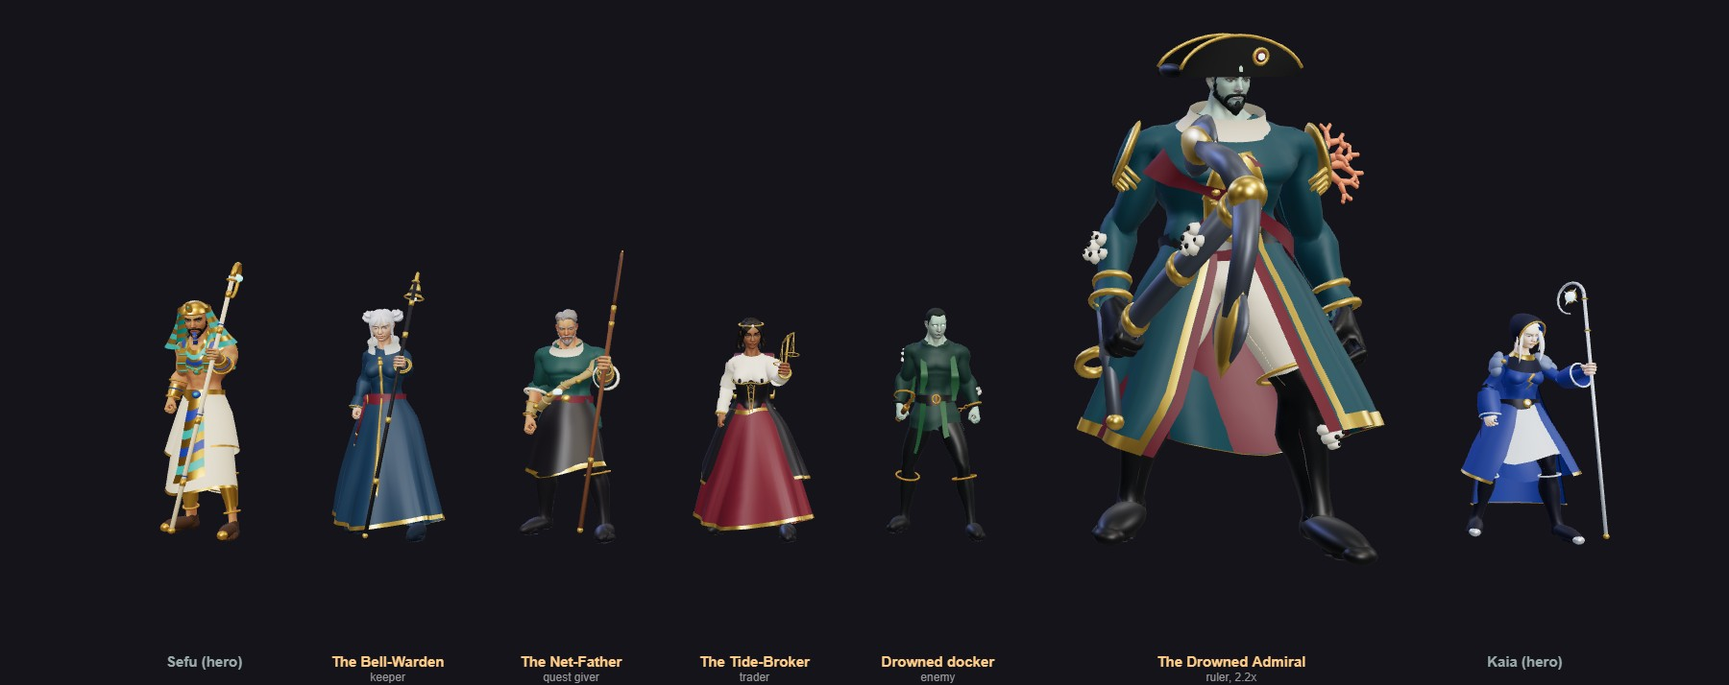
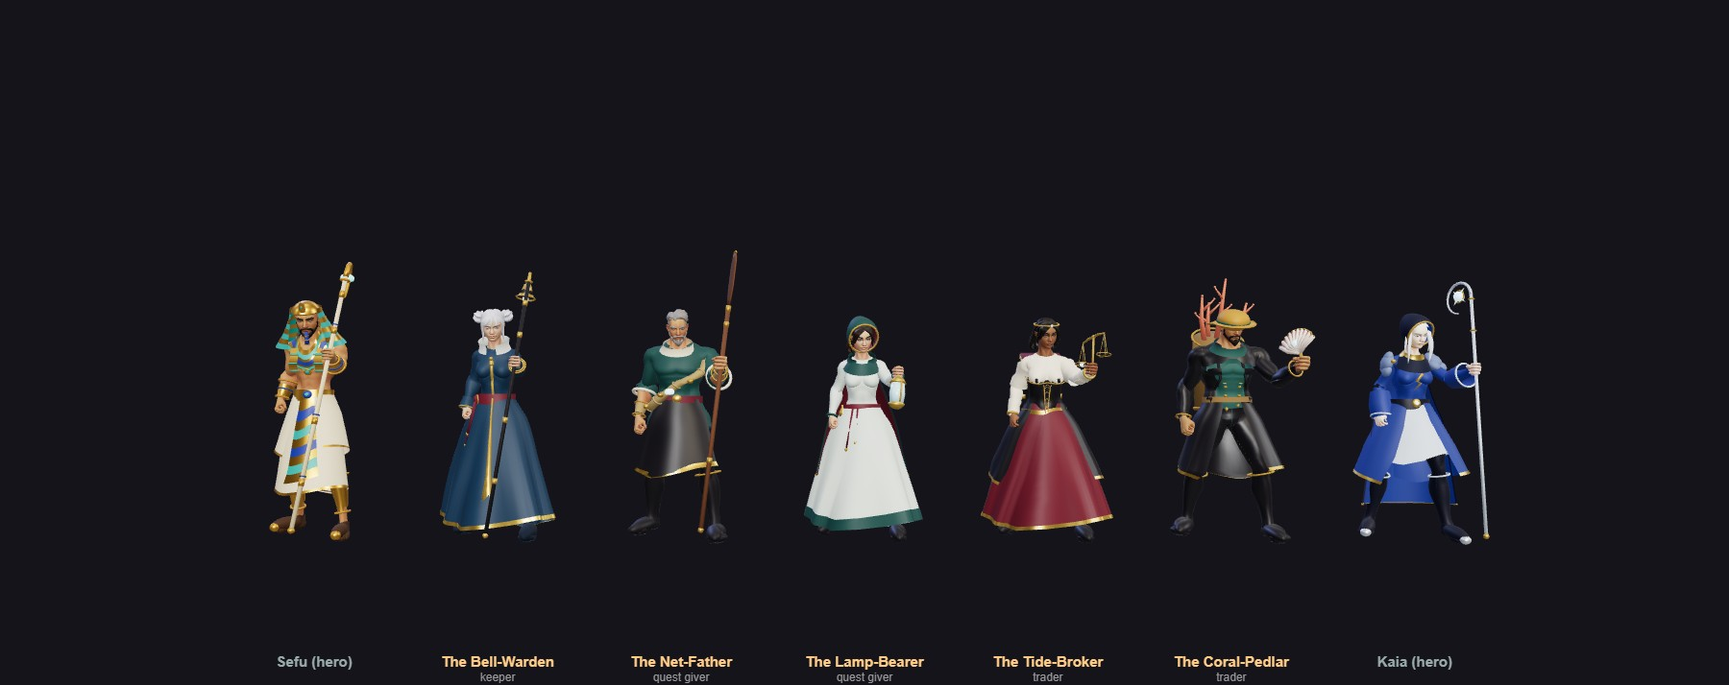
Climb people: line-ups, sheets and in-game camp pictures for all five chapters, the page of the 25 (docs/tower/models/index.html), the README, and the News line

diff --git a/docs/tower/models/index.html b/docs/tower/models/index.html
@@ -1,0 +1,77 @@
+<!doctype html><html lang="en"><head><meta charset="utf-8"><meta name="viewport" content="width=device-width, initial-scale=1">
+<title>The Climb's People</title>
+<style>
+:root{--bg:#f4f1ea;--fg:#1d1b21;--mute:#6a6470;--card:#fffdf8;--line:#ddd6c8;--gold:#9a7424}
+@media (prefers-color-scheme: dark){:root{--bg:#15141a;--fg:#ece6da;--mute:#a49eaa;--card:#1f1d25;--line:#34303c;--gold:#d2ae55}}
+body{margin:0;background:var(--bg);color:var(--fg);font:16px/1.5 system-ui,sans-serif}
+main{max-width:1200px;margin:auto;padding:16px}
+h1{margin:.2em 0} h2{border-top:2px solid var(--gold);padding-top:.6em;margin-top:2em} h2 small{display:block;font-size:.6em;color:var(--mute);font-weight:400}
+nav a{color:var(--gold);margin-right:1em}
+img{width:100%;height:auto;display:block;border-radius:6px;background:#15141a}
+figure{margin:0} figcaption{font-size:.9em;color:var(--mute);padding:.3em 0}
+.pair{display:grid;grid-template-columns:1fr;gap:12px}
+.cards{display:grid;grid-template-columns:repeat(auto-fill,minmax(300px,1fr));gap:14px;margin:14px 0}
+.card{background:var(--card);border:1px solid var(--line);border-radius:8px;padding:8px}
+.card b{display:block;font-size:1.1em;color:var(--fg)} .card span{display:block} .card .role{color:var(--gold)}
+.wide{margin-top:8px}
+p{max-width:70ch}
+</style></head><body><main>
+<h1>The Climb's people</h1>
+<p>Twenty-five people of their own, five a chapter, in place of the heroes who used to stand in the camps (the user, 2026-11-14:
+"make new models for npc, don't reuse them from heroes"). In each chapter the keeper stands on all ten floors; the quest giver at the
+camp and the one out in the land each keep their own lines; the two traders take turns, odd floors and even floors. Rivals and
+gatekeepers are still heroes: they are fights against a hero. Built like the heroes (the pack's body on the animation pack's
+skeleton, blender/tower), each 450 to 550 KB.</p>
+<nav><a href="#sea">The Sea</a><a href="#wood">The Wood</a><a href="#sands">The Sands</a><a href="#deep">The Deep</a><a href="#war">The War</a></nav>
+<section id="sea"><h2>The Sea <small>floors 1 to 10 · navy and sea-green, the harbour's wine, sea-glass light</small></h2>
+<div class="pair"><figure><img loading="lazy" src="sea-lineup-game.jpg" alt="The Sea's five beside Sefu and Kaia from the game's camera"><figcaption>From the game's camera, beside the heroes Sefu and Kaia</figcaption></figure>
+<figure><img loading="lazy" src="sea-lineup-front.jpg" alt="The Sea's five beside Sefu and Kaia from the front"><figcaption>From the front</figcaption></figure></div>
+<div class="cards"><figure class="card"><img loading="lazy" src="sea-keeper.jpg" alt="The Bell-Warden: front, back, the game's camera and the face">
+<figcaption><b>The Bell-Warden</b><span class="role">Keeper (all ten floors, the main quest)</span><span>She rings the harbour bell that calls the drowned ships home.</span></figcaption></figure><figure class="card"><img loading="lazy" src="sea-fisher.jpg" alt="The Net-Father: front, back, the game's camera and the face">
+<figcaption><b>The Net-Father</b><span class="role">Quest giver at the camp</span><span>The old fisher who mends the nets that hold the sea back from the town.</span></figcaption></figure><figure class="card"><img loading="lazy" src="sea-lamp.jpg" alt="The Lamp-Bearer: front, back, the game's camera and the face">
+<figcaption><b>The Lamp-Bearer</b><span class="role">Quest giver out in the land</span><span>She keeps the shore lamps that tell the boats where the land begins.</span></figcaption></figure><figure class="card"><img loading="lazy" src="sea-trader.jpg" alt="The Tide-Broker: front, back, the game's camera and the face">
+<figcaption><b>The Tide-Broker</b><span class="role">Trader Stands on the odd floors.</span><span>She weighs what the tide gives back and sells it to climbers.</span></figcaption></figure><figure class="card"><img loading="lazy" src="sea-pedlar.jpg" alt="The Coral-Pedlar: front, back, the game's camera and the face">
+<figcaption><b>The Coral-Pedlar</b><span class="role">Trader Stands on the even floors.</span><span>He sells what grows on the drowned reef, and carries the reef on his back.</span></figcaption></figure></div>
+<figure class="wide"><img loading="lazy" src="sea-ingame.jpg" alt="In the game: the camp of The Sea's first floor with its people and the keeper's card open"><figcaption>In the game: the camp of floor 1, the keeper's card open</figcaption></figure>
+</section><section id="wood"><h2>The Wood <small>floors 11 to 20 · forest and moss greens, bark brown, amber light</small></h2>
+<div class="pair"><figure><img loading="lazy" src="wood-lineup-game.jpg" alt="The Wood's five beside Sefu and Kaia from the game's camera"><figcaption>From the game's camera, beside the heroes Sefu and Kaia</figcaption></figure>
+<figure><img loading="lazy" src="wood-lineup-front.jpg" alt="The Wood's five beside Sefu and Kaia from the front"><figcaption>From the front</figcaption></figure></div>
+<div class="cards"><figure class="card"><img loading="lazy" src="wood-abbess.jpg" alt="The Moss-Abbess: front, back, the game's camera and the face">
+<figcaption><b>The Moss-Abbess</b><span class="role">Keeper (all ten floors, the main quest)</span><span>She sounds the horn that keeps the walking wood asleep.</span></figcaption></figure><figure class="card"><img loading="lazy" src="wood-lighter.jpg" alt="The Path-Lighter: front, back, the game's camera and the face">
+<figcaption><b>The Path-Lighter</b><span class="role">Quest giver at the camp</span><span>He lights the spore lamps that show where the wood&#x27;s paths have moved to.</span></figcaption></figure><figure class="card"><img loading="lazy" src="wood-kiln.jpg" alt="The Kiln-Mother: front, back, the game's camera and the face">
+<figcaption><b>The Kiln-Mother</b><span class="role">Quest giver out in the land</span><span>She tends the charcoal stacks whose smoke keeps the hounds of the wood away.</span></figcaption></figure><figure class="card"><img loading="lazy" src="wood-amber.jpg" alt="The Amber-Seller: front, back, the game's camera and the face">
+<figcaption><b>The Amber-Seller</b><span class="role">Trader Stands on the odd floors.</span><span>She sells the wood&#x27;s amber, the old resin with the forest&#x27;s memories caught in it.</span></figcaption></figure><figure class="card"><img loading="lazy" src="wood-charm.jpg" alt="The Charm-Pedlar: front, back, the game's camera and the face">
+<figcaption><b>The Charm-Pedlar</b><span class="role">Trader Stands on the even floors.</span><span>He walks the wood&#x27;s moving paths with a frame of carved charms that the wood lets pass.</span></figcaption></figure></div>
+<figure class="wide"><img loading="lazy" src="wood-ingame.jpg" alt="In the game: the camp of The Wood's first floor with its people and the keeper's card open"><figcaption>In the game: the camp of floor 11, the keeper's card open</figcaption></figure>
+</section><section id="sands"><h2>The Sands <small>floors 21 to 30 · night indigo, terracotta, turquoise and saffron</small></h2>
+<div class="pair"><figure><img loading="lazy" src="sands-lineup-game.jpg" alt="The Sands's five beside Sefu and Kaia from the game's camera"><figcaption>From the game's camera, beside the heroes Sefu and Kaia</figcaption></figure>
+<figure><img loading="lazy" src="sands-lineup-front.jpg" alt="The Sands's five beside Sefu and Kaia from the front"><figcaption>From the front</figcaption></figure></div>
+<div class="cards"><figure class="card"><img loading="lazy" src="sands-seer.jpg" alt="The Star-Reader: front, back, the game's camera and the face">
+<figcaption><b>The Star-Reader</b><span class="role">Keeper (all ten floors, the main quest)</span><span>She reads in the night sky which way the storms will walk, and sends climbers by the roads they leave open.</span></figcaption></figure><figure class="card"><img loading="lazy" src="sands-counter.jpg" alt="The Storm-Counter: front, back, the game's camera and the face">
+<figcaption><b>The Storm-Counter</b><span class="role">Quest giver at the camp</span><span>He keeps the count of the storms, every one, by the sand that runs through his glass, and the caravans move by his word.</span></figcaption></figure><figure class="card"><img loading="lazy" src="sands-beacon.jpg" alt="The Beacon-Keeper: front, back, the game's camera and the face">
+<figcaption><b>The Beacon-Keeper</b><span class="role">Quest giver out in the land</span><span>She keeps the watch fires that warn the road of a storm coming.</span></figcaption></figure><figure class="card"><img loading="lazy" src="sands-silk.jpg" alt="The Silk-Merchant: front, back, the game's camera and the face">
+<figcaption><b>The Silk-Merchant</b><span class="role">Trader Stands on the odd floors.</span><span>The master of the last caravan, who sells from its bales the road has not taken.</span></figcaption></figure><figure class="card"><img loading="lazy" src="sands-glass.jpg" alt="The Glass-Seller: front, back, the game's camera and the face">
+<figcaption><b>The Glass-Seller</b><span class="role">Trader Stands on the even floors.</span><span>She gathers the glass the lightning leaves in the dunes and sells it by the light it still holds.</span></figcaption></figure></div>
+<figure class="wide"><img loading="lazy" src="sands-ingame.jpg" alt="In the game: the camp of The Sands's first floor with its people and the keeper's card open"><figcaption>In the game: the camp of floor 21, the keeper's card open</figcaption></figure>
+</section><section id="deep"><h2>The Deep <small>floors 31 to 40 · slate and violet, silver, cold mint and lavender light</small></h2>
+<div class="pair"><figure><img loading="lazy" src="deep-lineup-game.jpg" alt="The Deep's five beside Sefu and Kaia from the game's camera"><figcaption>From the game's camera, beside the heroes Sefu and Kaia</figcaption></figure>
+<figure><img loading="lazy" src="deep-lineup-front.jpg" alt="The Deep's five beside Sefu and Kaia from the front"><figcaption>From the front</figcaption></figure></div>
+<div class="cards"><figure class="card"><img loading="lazy" src="deep-hermit.jpg" alt="The Echo-Hermit: front, back, the game's camera and the face">
+<figcaption><b>The Echo-Hermit</b><span class="role">Keeper (all ten floors, the main quest)</span><span>Blind for longer than anyone remembers, he finds the way through the dark halls by the echoes of his staff.</span></figcaption></figure><figure class="card"><img loading="lazy" src="deep-candle.jpg" alt="The Candle-Crowned: front, back, the game's camera and the face">
+<figcaption><b>The Candle-Crowned</b><span class="role">Quest giver at the camp</span><span>She keeps the last candles of the Deep burning, and wears them, so that wherever she walks there is a little light.</span></figcaption></figure><figure class="card"><img loading="lazy" src="deep-ferry.jpg" alt="The Ferryman: front, back, the game's camera and the face">
+<figcaption><b>The Ferryman</b><span class="role">Quest giver out in the land</span><span>He poles the one boat across the lake under the mountain, and brings back those who went too far down.</span></figcaption></figure><figure class="card"><img loading="lazy" src="deep-crystal.jpg" alt="The Crystal-Seller: front, back, the game's camera and the face">
+<figcaption><b>The Crystal-Seller</b><span class="role">Trader Stands on the odd floors.</span><span>She cuts the Deep&#x27;s crystals and sells light by the facet.</span></figcaption></figure><figure class="card"><img loading="lazy" src="deep-firefly.jpg" alt="The Firefly-Seller: front, back, the game's camera and the face">
+<figcaption><b>The Firefly-Seller</b><span class="role">Trader Stands on the even floors.</span><span>He sells living light, the fireflies of the deep caves, by the jar.</span></figcaption></figure></div>
+<figure class="wide"><img loading="lazy" src="deep-ingame.jpg" alt="In the game: the camp of The Deep's first floor with its people and the keeper's card open"><figcaption>In the game: the camp of floor 31, the keeper's card open</figcaption></figure>
+</section><section id="war"><h2>The War <small>floors 41 to 50 · the two banners' crimson and azure, iron grey, white</small></h2>
+<div class="pair"><figure><img loading="lazy" src="war-lineup-game.jpg" alt="The War's five beside Sefu and Kaia from the game's camera"><figcaption>From the game's camera, beside the heroes Sefu and Kaia</figcaption></figure>
+<figure><img loading="lazy" src="war-lineup-front.jpg" alt="The War's five beside Sefu and Kaia from the front"><figcaption>From the front</figcaption></figure></div>
+<div class="cards"><figure class="card"><img loading="lazy" src="war-herald.jpg" alt="The Herald: front, back, the game's camera and the face">
+<figcaption><b>The Herald</b><span class="role">Keeper (all ten floors, the main quest)</span><span>She speaks for both armies, the only voice either side still lets cross the field.</span></figcaption></figure><figure class="card"><img loading="lazy" src="war-turncloak.jpg" alt="The Turncloak: front, back, the game's camera and the face">
+<figcaption><b>The Turncloak</b><span class="role">Quest giver at the camp</span><span>He fought for both banners, one after the other, and now keeps his head down between them.</span></figcaption></figure><figure class="card"><img loading="lazy" src="war-sister.jpg" alt="The White Sister: front, back, the game's camera and the face">
+<figcaption><b>The White Sister</b><span class="role">Quest giver out in the land</span><span>She mends whoever is carried in, whatever the colour of their banner.</span></figcaption></figure><figure class="card"><img loading="lazy" src="war-camp.jpg" alt="The Camp-Mother: front, back, the game's camera and the face">
+<figcaption><b>The Camp-Mother</b><span class="role">Trader Stands on the odd floors.</span><span>She feeds both armies from one fire and takes both armies&#x27; shards.</span></figcaption></figure><figure class="card"><img loading="lazy" src="war-quarter.jpg" alt="The Quartermaster: front, back, the game's camera and the face">
+<figcaption><b>The Quartermaster</b><span class="role">Trader Stands on the even floors.</span><span>He keeps the stores that both armies left behind, and opens them for shards.</span></figcaption></figure></div>
+<figure class="wide"><img loading="lazy" src="war-ingame.jpg" alt="In the game: the camp of The War's first floor with its people and the keeper's card open"><figcaption>In the game: the camp of floor 41, the keeper's card open</figcaption></figure>
+</section>
+</main></body></html>

diff --git a/src/game/changelog.ts b/src/game/changelog.ts
@@ -39,6 +39,20 @@ export interface Release {
 export const CHANGELOG: Release[] = [
   {
     date: '2026-11-14',
+    title: 'The Climb’s own people',
+    live: false,
+    items: [
+      {
+        tag: 'Tower',
+        title: 'The Climb’s people are their own',
+        text: 'The keepers, quest givers and traders on the Climb are no longer heroes standing in: each chapter has five people of its own, from the Bell-Warden of the Sea to the Herald of the War, and the traders take turns floor by floor. Rivals and gatekeepers are still heroes.',
+        image: '/news/climb-people.jpg',
+        alt: 'The Wood’s five people between the heroes Sefu and Kaia: the Moss-Abbess in a pointed green hood with a curled horn, the Path-Lighter in a wide hat with a lamp on a tall pole, the Kiln-Mother with a basket of charcoal and a fire-rake, the Amber-Seller with a tray of amber, and the Charm-Pedlar with a frame of charms over his head.',
+      },
+    ],
+  },
+  {
+    date: '2026-11-14',
     title: 'The Climb grows to fifty floors',
     live: true,
     items: [

diff --git a/blender/tower/page.py b/blender/tower/page.py
@@ -1,0 +1,67 @@
+"""Writes docs/tower/models/index.html, the page of the Climb's 25 people chapter by chapter (names and roles from
+src/tower/world/folk.ts, one line each from the first sentence of its Blender module's docstring). Run from the repo root:
+
+    python blender/tower/page.py
+"""
+import re, ast, html, os
+folk = open('src/tower/world/folk.ts', encoding='utf8').read()
+rows = re.findall(r"\{ id: '(\w+)', chapter: '(\w+)', name: '([^']+)', title: '([^']+)', slot: '(\w+)'", folk)
+CH = [('sea', 'The Sea', 'floors 1 to 10', 'navy and sea-green, the harbour\'s wine, sea-glass light'),
+      ('wood', 'The Wood', 'floors 11 to 20', 'forest and moss greens, bark brown, amber light'),
+      ('sands', 'The Sands', 'floors 21 to 30', 'night indigo, terracotta, turquoise and saffron'),
+      ('deep', 'The Deep', 'floors 31 to 40', 'slate and violet, silver, cold mint and lavender light'),
+      ('war', 'The War', 'floors 41 to 50', 'the two banners\' crimson and azure, iron grey, white')]
+SLOT = {'keeper': 'Keeper (all ten floors, the main quest)', 'giver': 'Quest giver at the camp', 'village': 'Quest giver out in the land', 'trader': 'Trader'}
+def doc(fid):
+    ch, n = fid.split('_', 1)
+    d = ast.get_docstring(ast.parse(open(f'blender/tower/{ch}/{"fisher" if n=="fisher" else n}.py', encoding='utf8').read()))
+    d = ' '.join(d.split())
+    first = d.split(': ', 1)[1] if ': ' in d.split('.')[0] else d
+    s = first.split('. ')[0].rstrip('.') + '.'
+    return s[0].upper() + s[1:]
+out = []
+for ch, title, floors, colours in CH:
+    figs = [r for r in rows if r[1] == ch]
+    trade = [r for r in figs if r[4] == 'trader']
+    cards = []
+    for fid, _, name, ttl, slot in figs:
+        extra = ''
+        if slot == 'trader':
+            extra = ' Stands on the odd floors.' if fid == trade[0][0] else ' Stands on the even floors.'
+        cards.append(f'''<figure class="card"><img loading="lazy" src="{fid.replace('_','-')}.jpg" alt="{html.escape(name)}: front, back, the game's camera and the face">
+<figcaption><b>{html.escape(name)}</b><span class="role">{SLOT[slot]}{extra}</span><span>{html.escape(doc(fid))}</span></figcaption></figure>''')
+    out.append(f'''<section id="{ch}"><h2>{title} <small>{floors} · {colours}</small></h2>
+<div class="pair"><figure><img loading="lazy" src="{ch}-lineup-game.jpg" alt="{title}'s five beside Sefu and Kaia from the game's camera"><figcaption>From the game's camera, beside the heroes Sefu and Kaia</figcaption></figure>
+<figure><img loading="lazy" src="{ch}-lineup-front.jpg" alt="{title}'s five beside Sefu and Kaia from the front"><figcaption>From the front</figcaption></figure></div>
+<div class="cards">{''.join(cards)}</div>
+<figure class="wide"><img loading="lazy" src="{ch}-ingame.jpg" alt="In the game: the camp of {title}'s first floor with its people and the keeper's card open"><figcaption>In the game: the camp of floor {CH.index((ch,title,floors,colours))*10+1}, the keeper's card open</figcaption></figure>
+</section>''')
+page = f'''<!doctype html><html lang="en"><head><meta charset="utf-8"><meta name="viewport" content="width=device-width, initial-scale=1">
+<title>The Climb's People</title>
+<style>
+:root{{--bg:#f4f1ea;--fg:#1d1b21;--mute:#6a6470;--card:#fffdf8;--line:#ddd6c8;--gold:#9a7424}}
+@media (prefers-color-scheme: dark){{:root{{--bg:#15141a;--fg:#ece6da;--mute:#a49eaa;--card:#1f1d25;--line:#34303c;--gold:#d2ae55}}}}
+body{{margin:0;background:var(--bg);color:var(--fg);font:16px/1.5 system-ui,sans-serif}}
+main{{max-width:1200px;margin:auto;padding:16px}}
+h1{{margin:.2em 0}} h2{{border-top:2px solid var(--gold);padding-top:.6em;margin-top:2em}} h2 small{{display:block;font-size:.6em;color:var(--mute);font-weight:400}}
+nav a{{color:var(--gold);margin-right:1em}}
+img{{width:100%;height:auto;display:block;border-radius:6px;background:#15141a}}
+figure{{margin:0}} figcaption{{font-size:.9em;color:var(--mute);padding:.3em 0}}
+.pair{{display:grid;grid-template-columns:1fr;gap:12px}}
+.cards{{display:grid;grid-template-columns:repeat(auto-fill,minmax(300px,1fr));gap:14px;margin:14px 0}}
+.card{{background:var(--card);border:1px solid var(--line);border-radius:8px;padding:8px}}
+.card b{{display:block;font-size:1.1em;color:var(--fg)}} .card span{{display:block}} .card .role{{color:var(--gold)}}
+.wide{{margin-top:8px}}
+p{{max-width:70ch}}
+</style></head><body><main>
+<h1>The Climb's people</h1>
+<p>Twenty-five people of their own, five a chapter, in place of the heroes who used to stand in the camps (the user, 2026-11-14:
+"make new models for npc, don't reuse them from heroes"). In each chapter the keeper stands on all ten floors; the quest giver at the
+camp and the one out in the land each keep their own lines; the two traders take turns, odd floors and even floors. Rivals and
+gatekeepers are still heroes: they are fights against a hero. Built like the heroes (the pack's body on the animation pack's
+skeleton, blender/tower), each 450 to 550 KB.</p>
+<nav>{''.join(f'<a href="#{c[0]}">{c[1]}</a>' for c in CH)}</nav>
+{''.join(out)}
+</main></body></html>'''
+open('docs/tower/models/index.html', 'w', encoding='utf8').write(page)
+print(len(rows), 'figures')

diff --git a/docs/tower/models/README.md b/docs/tower/models/README.md
@@ -1,60 +1,74 @@
-# The Tower's own figures
+# The Climb's own people
 
-The user, 2026-11-14: "if you need to create like new model for some npc and stuff make new ones also for enemies just
-make new dont just reuse heroes that we have". Today the Tower's people and rulers are roster heroes (a ruler is a hero drawn
-big and tinted), and its enemies are drawn in code (`src/tower/world/looks.ts`). This folder holds the first sample of new
-models, for chapter 1 (the Sea), **for the user's yes before any more are made. Nothing here is in the game.**
+The user, 2026-11-14: "if you need to create like new model for some npc and stuff make new ones also for enemies just make new dont
+just reuse heroes that we have", then "also make new models for npc, don't reuse them from heroes". **Since then every person on a
+Climb floor (keeper, quest givers, trader) is a figure of its own, in the game** (not live until the next deploy). The rivals,
+gatekeepers and rulers are still heroes, and the enemies are still drawn in code: see the plan below.
 
-## The sample: chapter 1, the Sea
+**The page of all 25, chapter by chapter: [index.html](index.html)** (made by `python blender/tower/page.py`).
 
-![Beside Sefu and Kaia, from the game's camera](sea-lineup-game.jpg)
+![The Wood's five beside Sefu and Kaia, from the game's camera](wood-lineup-game.jpg)
 
-![Beside Sefu and Kaia, from the front](sea-lineup-front.jpg)
+## The 25
 
-![Each alone: front, back, the game's camera, the face](sea-sheet.jpg)
+| Chapter | Keeper (all ten floors) | Quest giver at the camp | Quest giver out in the land | Traders (odd floors / even floors) |
+|---|---|---|---|---|
+| The Sea, 1-10 | The Bell-Warden | The Net-Father | The Lamp-Bearer | The Tide-Broker / The Coral-Pedlar |
+| The Wood, 11-20 | The Moss-Abbess | The Path-Lighter | The Kiln-Mother | The Amber-Seller / The Charm-Pedlar |
+| The Sands, 21-30 | The Star-Reader | The Storm-Counter | The Beacon-Keeper | The Silk-Merchant / The Glass-Seller |
+| The Deep, 31-40 | The Echo-Hermit | The Candle-Crowned | The Ferryman | The Crystal-Seller / The Firefly-Seller |
+| The War, 41-50 | The Herald | The Turncloak | The White Sister | The Camp-Mother / The Quartermaster |
 
-All five stand in the pack's idle clip, drawn by the game's own figure code (`HeroFigure`) in the hero stand's light,
-at true sizes beside the heroes Sefu and Kaia (the admiral at 2.2 times a hero, as a ruler is drawn). One picture per
-figure as well: `sea-keeper.jpg`, `sea-fisher.jpg`, `sea-trader.jpg`, `sea-docker.jpg`, `sea-admiral.jpg`.
+Each is described in the head of its module (`blender/tower/<chapter>/<name>.py`) and on the page. Per chapter here:
+`<chapter>-lineup-game.jpg` and `<chapter>-lineup-front.jpg` (the five beside Sefu and Kaia), `<chapter>-sheet.jpg` and one
+`<chapter>-<name>.jpg` each (front, back, the game's camera, the face), and `<chapter>-ingame.jpg` (the camp of the chapter's first
+floor in the game, the keeper's card open). The Sea's drowned docker and Drowned Admiral (`sea-docker.jpg`, `sea-admiral.jpg`) are
+the first sample's enemy and ruler: built, not in the game.
 
-| Figure | Role | What it is | Body and parts |
-|---|---|---|---|
-| **The Bell-Warden** | keeper (main quest) | She rings the harbour bell that calls the drowned ships home. Silver hair in buns, a sea-navy gown to the floor with a gold hem and front seam, a flared sea-foam collar, a wine sash knotted at the hip, and a tall black staff whose gold crook holds the harbour bell; its clapper is her one light. | Female body (height 1.03). Fitted gown, `skirt` in folds, `collar`, `band`; the staff in the LEFT hand (held upright like Sefu's crook). |
-| **The Net-Father** | quest giver | The old fisher who mends the nets that hold the sea back. Grey hair and beard, bare-headed, a snug cream roll neck, a sea-green tunic, rope bracers, a black apron, his net coiled across the chest with gold floats and one glowing sea-glass float, a steering oar blade-up. | Male body, broad (width 1.1). Pack hair and beard; the net is a strap round the trunk; the oar in the LEFT hand. |
-| **The Tide-Broker** | trader | She weighs what the tide gives back. A cream blouse with full sleeves, a black bodice laced in gold, a long wine skirt with an open black overskirt, pearls, a gold circlet, a strongbox on her back, and a brass balance held up, a glowing pearl in one pan. | Female body. Pack long hair; the balance in the LEFT hand. |
-| **Drowned docker** | enemy, melee | A dock hand the sea sent back up the quay. Pale grey-green skin, no brows, a cold sea-glass light for eyes, a sea-green jersey, clean dark-green kelp ribbons from the shoulders and belt, smooth cream barnacles on one shoulder and one forearm, a shackle and short chain, a brass cargo hook. No rags: what is drowned is told by colour, weed and barnacles. | Male body, lean. The hook in the RIGHT hand (strikes as Brannoc does). 19,000 faces. |
-| **The Drowned Admiral** | ruler (boss) | The admiral who went down with his fleet. Built as a giant, not a hero made big: broad and deep, a smaller head, hands 1.3 times as big. A long deep-teal coat with wine lining and gold braid, gold epaulettes, a cream neck-stock, a wine sash, a black bicorne with a glowing sea-glass cockade, coral grown through the left epaulette, barnacles, and a great anchor held by the shank, carried crown-up across his chest at rest (his move is the Anchor Sweep). | Male body, width 1.3, depth 1.25, head 0.86, `big_hands`. The anchor in the RIGHT hand. |
+**How they were made to differ:** within a chapter no two share more than one of headwear, the held thing's top, the lower outline
+(gown, coat, skirt or legs) and the main colour; the pack has one face per sex, so faces do not tell them apart. Each holds its
+thing in the LEFT hand and stands as the hero Sefu holds his staff (the Turncloak holds a shield on his left arm, as Auriel does),
+at ease. One small light each. 450-550 KB and 19,000-24,500 faces each, like a hero; **12.3 MB for all 25**, about 1.5 MB on a
+floor (three or four of them).
 
-**Kept from the house rules:** the fourth hero style (the pack's realistic body, one continuous skin, on the Universal
-Animation Library's skeleton, so every clip the heroes play plays on these); mythic roles, never jobs played for a joke
-(ART_BIBLE §1; the jokes may live in names); the arena's materials (`blender/arenas/real/STYLE.md`: matte cloth, polished
-gold, the harbour's wine as the chapter's own colour); one small light each; staffs and held things in the left hand,
-weapons in the right (`pipeline/designs/style-v4/README.md`). Each is 460-550 KB and 19,000-25,000 faces, like a hero.
+**Decided here, for the user to overrule:** all the names, the sexes, the roles, which trader is first.
 
-**Decided here, for the user to overrule:** the names; the keeper is a woman and the fisher a man (the pack has one face
-per sex, so the two drowned men share a face and differ by skin, beard and hat); the docker's eyes glow; the admiral's
-coral is the Tide palette's orange accent. **Not checked:** walking, striking, being hit (only the idle clip was looked
-at); a phone.
+## How a floor picks its people (src/tower/world/folk.ts)
+
+- `TOWER_FOLK` lists the 25 with their model, name, slot and the hero whose way of holding they borrow. `withFolk(n, floor)`
+  (applied to every floor in `floors/index.ts`) gives each person a `figure` by the floor's number: the chapter's keeper; the first
+  giver of the floor (the camp's, `giver`) the camp giver, the second (`villager`, or the War's `healer`) the giver out in the land;
+  the trader the first on odd floors and the second on even ones. A generated floor has all five; the handmade first floors (11,
+  21, 31, 41) have no second giver, and floor 1 has all five.
+- **Their lines are the slots' own**, so the givers do not swap slots: the Sea's camp giver hauls nets, the War's land giver is the
+  healer. On the generated floors the keeper and both givers are the same on every floor of a chapter; only the trader alternates.
+- A person who was named after a hero takes the figure's name on its card and mark and in every line of the floor that names it
+  (quests, doors, the rival's lines): "Gus has a quest about a key" became "The Bell-Warden has a quest about a key". Ids stay
+  (saved runs name them). The few lines written for a hero that the figure would not say (floor 41's deserter was a cat with nine
+  lives, floor 11's keeper had sheep) are rewritten in `LINES` and `QUEST_LINES` there.
+- The rival stays a hero, and so does a person who is the rival's hero (floor 41's Brannoc, who holds the ground for his duel).
+- `people.ts` draws a person with a `figure` from `models/tower/<figure>_v4.glb`, loaded when the floor starts: a floor loads only
+  its own three or four.
 
 ## How they are built, and the command
 
-One module per figure, `blender/tower/<chapter>/<name>.py`, each with a `build()` that dresses a `Real` exactly as a
-hero's `blender/heroes/real/<theme>.py` does (the kit is `blender/heroes/realkit.py` and the shared parts
-`blender/heroes/real/parts_*.py`). `blender/tower/build.py` writes `docs/tower/models/glb/<chapter>_<name>_v4.glb` (not
-committed: about a minute to rebuild; `--out` writes elsewhere, e.g. `public/models/tower` when they go into the game).
-The `_v4.glb` ending is what makes the game's figure code treat a model as one of this style.
+One module per figure, `blender/tower/<chapter>/<name>.py`, each with a `build()` that dresses a `Real` exactly as a hero's
+`blender/heroes/real/<theme>.py` does (the kit is `blender/heroes/realkit.py`, the shared parts `blender/heroes/real/parts_*.py`,
+and the people's own `blender/tower/folk.py`: a held thing's frame, poles, a hanging lantern, a wide hat, a veil, a basket and
+straps, a tray). `blender/tower/build.py --out public/models/tower` writes the game's models (committed); without `--out` it writes
+`docs/tower/models/glb/` (not committed). The `_v4.glb` ending is what makes the game's figure code treat a model as one of this style.
 
 ```
-"C:/Program Files/Blender Foundation/Blender 5.2/blender.exe" --background --factory-startup --python blender/tower/build.py -- sea.keeper sea.fisher sea.trader sea.docker sea.admiral
-python pipeline/tools/page-shots.py pipeline/tools/tower-models-sheet.js docs/tower/models --port 5186
+"C:/Program Files/Blender Foundation/Blender 5.2/blender.exe" --background --factory-startup --python blender/tower/build.py -- wood.abbess wood.lighter wood.kiln wood.amber wood.charm --out public/models/tower
+python pipeline/tools/page-shots.py <wrapper.js> docs/tower/models --port 5254
+python blender/tower/page.py
 ```
 
-The second line takes the pictures (`pipeline/tools/tower-models-sheet.js`: the two line-ups, each figure alone, and the
-sheet of all of them) straight into this folder, under the names above. Use a port no other agent's server is on.
-`--shots <folder>` on the first line also writes a Blender check picture of each in its T-pose. The page log shows one
-404 while the figures load; all seven load and are drawn, and where it comes from was not looked into.
+The pictures: `pipeline/tools/tower-models-sheet.js` draws one chapter (`window._towerChapter = 'wood';` on a line before the
+file's own text, in a copy given to page-shots; default the Sea) from the game's own models and figure code. The tool page shows
+one 404 when it loads (its favicon); the game's own runs show no console errors.
 
-## The plan for all 50 floors
+## The plan for all 50 floors (the people are done; rulers and enemies are next)
 
 The ladder (pipeline/designs/tower-50.md): five chapters of ten floors; in each, one handmade floor, eight made by the
 generator, and a crown. **The five crowns are Raid bosses and need nothing.** Gatekeepers and rivals stay heroes (they
@@ -82,13 +96,10 @@ dockers is six of them. Enemies should get a lighter budget than a hero's (about
 the body's hidden skin dropped), and a floor's packs measured with `python pipeline/tools/perf.py` before the rest are
 made. A floor loads about 3 people, 3 enemy kinds and its ruler: about 3.5 MB of models.
 
-## What the game code would need (not changed here)
+## What the game code needs for the rest
 
-1. **People** (`src/tower/world/def.ts` `PersonDef.hero`, read in `src/tower/world/people.ts`): an optional `model` (a
-   path such as `models/tower/sea_keeper_v4.glb`) and `hold` (`torch` for a staff, oar or balance in the left hand),
-   used in place of the hero's kit. `HeroFigure.setModel(url, at, kit)` already draws any `_v4.glb`; it takes the way of
-   holding from `REAL_STYLE[kit.name]` (`src/motion/real.ts`), so it needs that hold passed in another way (a small
-   stand-in kit, or a new argument).
+1. **People: done** (above). `PersonDef.figure`, the stand-in hero for the way of holding (`Folk.stand`: no change to the figure
+   code was needed), the names in the floor's words.
 2. **Rulers** (`src/tower/world/pieces/types.ts` `RulerDef.stand`, read at `src/tower/world/pieces/ruler.ts:85`): the
    stand-in hero gives four things: the model, the hit size (`HERO_BODIES`), whether it is melee and how it strikes
    (`standKit`), and the tint. A ruler of its own needs `model`, `body` (radius and height, measured on the model) and
